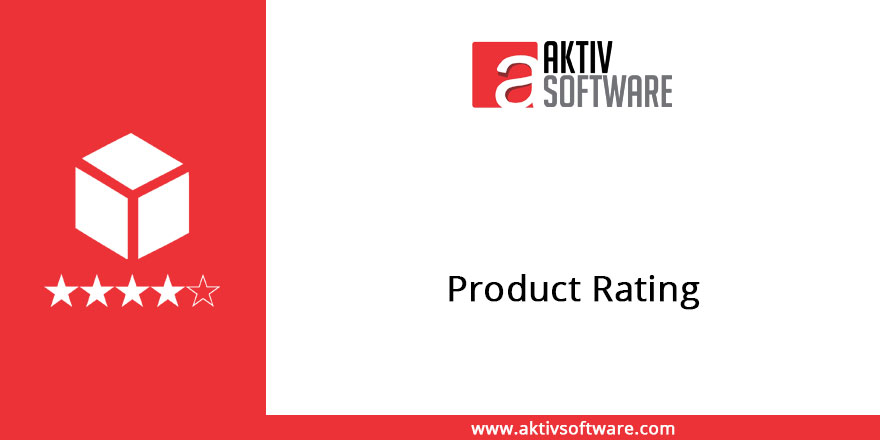
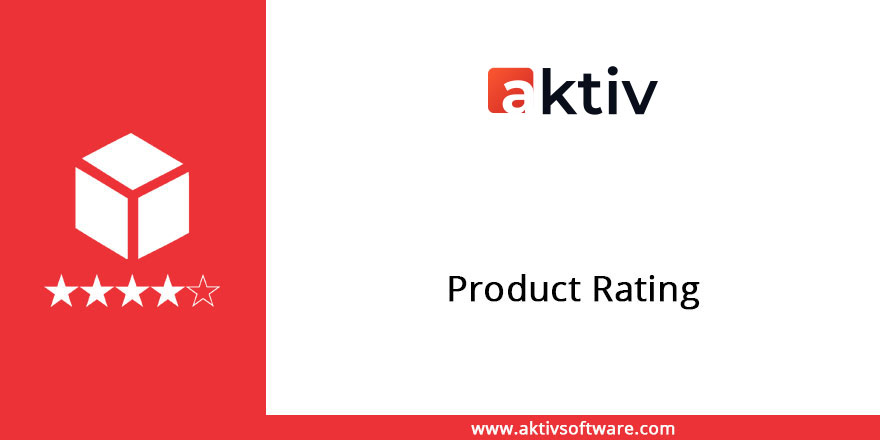
[ADD] change image in 9.0

Changed region(s): [[0.5216, 0.0886, 0.767, 0.2659]]

diff --git a/product_rating_review/static/description/index.html b/product_rating_review/static/description/index.html
@@ -49,7 +49,7 @@
     <div class="oe_row oe_spaced">
         <h2 class="oe_slogan">
             <a href="http://aktivsoftware.com/" target="new">
-                <img src="http://aktivsoftware.com/wp-content/uploads/2018/01/logo-1.png"/>
+                <img src="aktiv-logo.png"/>
             </a>
             <br/>
             <a href="mailto:sales@aktivsoftware.com" style="color: #000000 !important;">
